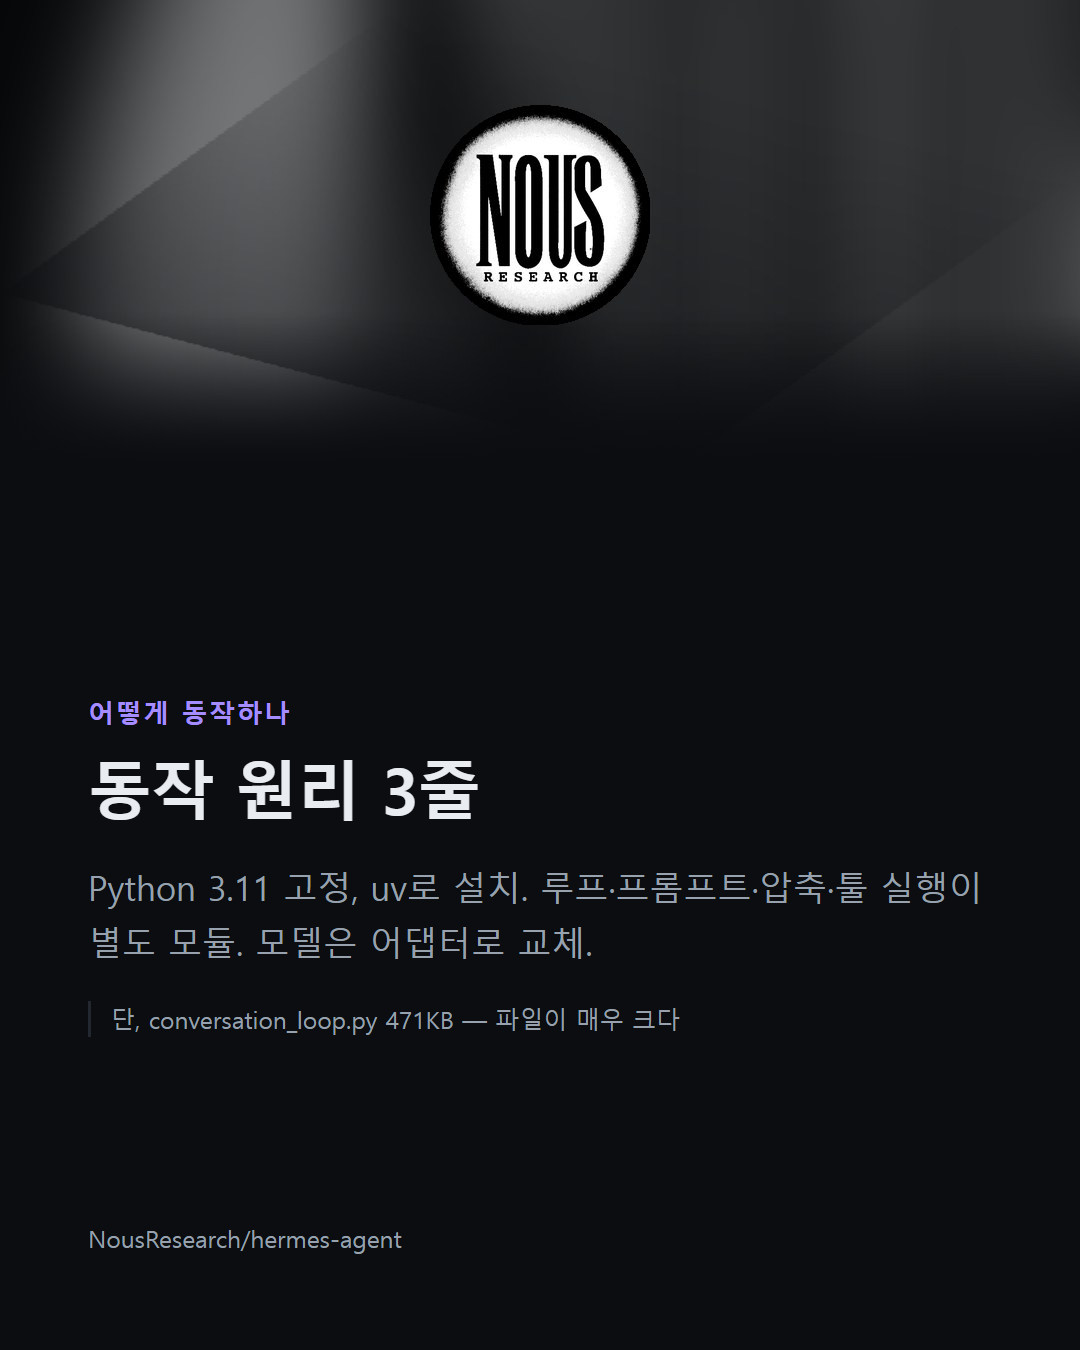
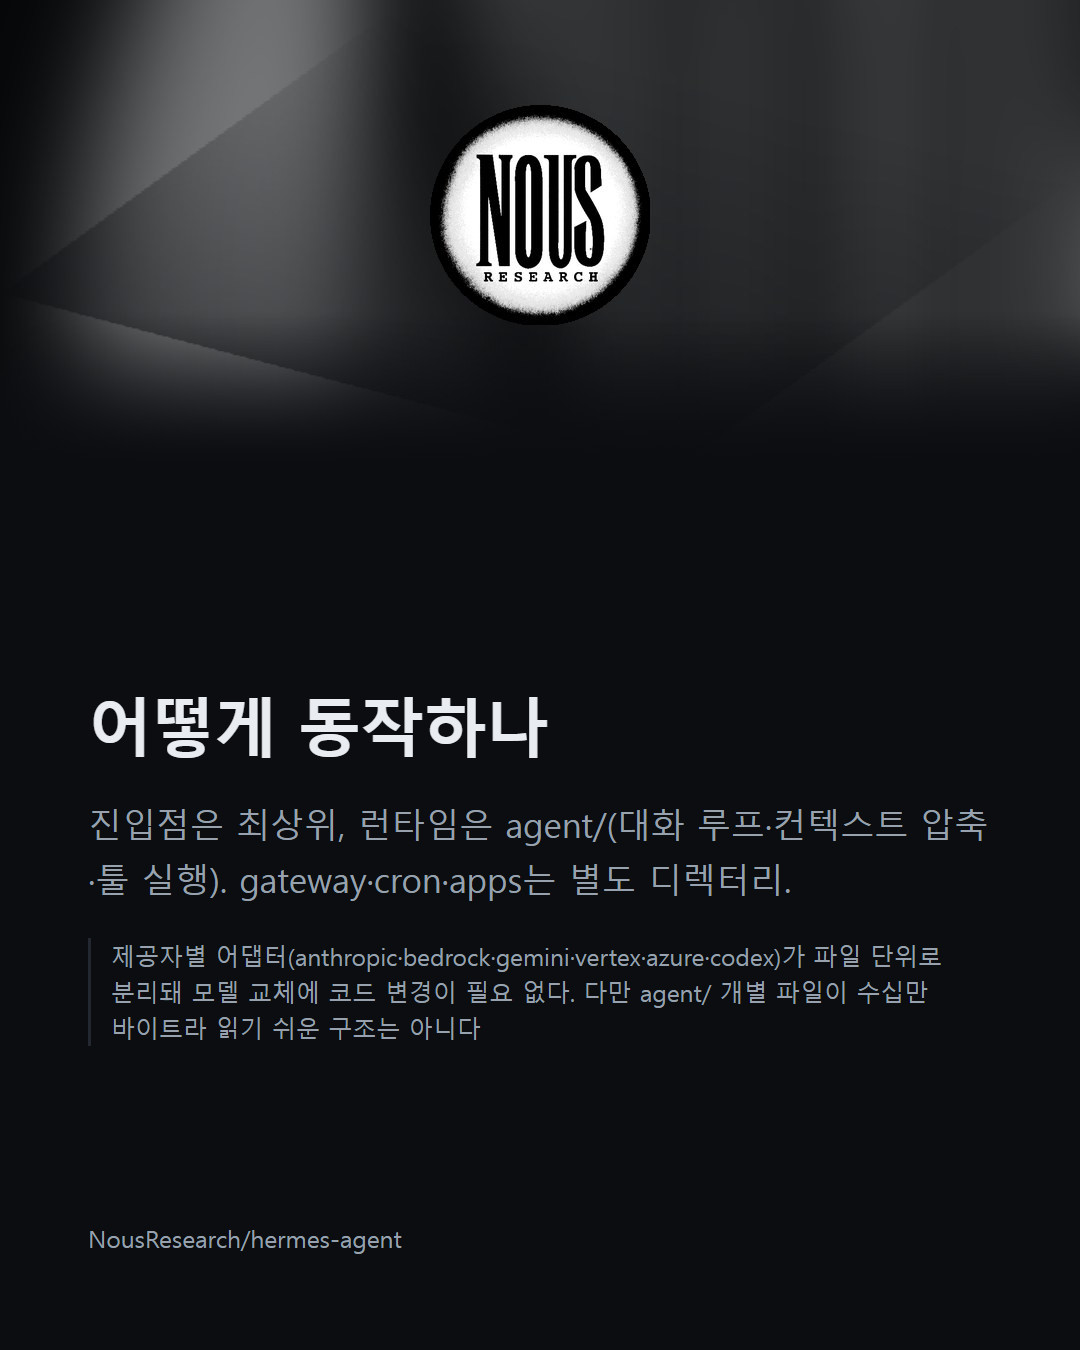
feat: 무인화 범위를 수집·선정까지로 확정, 로컬 일괄 실행 명령 추가
무료 모델로 CI 무인화하는 안을 조사한 끝에 접었다. 근거는 SPEC 9.0:
- GitHub Models 는 2026-07-30 완전 종료. 엔드포인트가 없다.
- Groq 무료는 TPM 8,000 이 단일 요청에 걸려 15K 짜리 compose 가 첫 시도부터 429.
- Actions 로컬 추론은 100K 컨텍스트 KV 캐시만 ~12.8GB 라 16GB 러너를 넘는다.
  한국어가 되려면 8B 이상인데 8B 이상이 안 올라간다 — 축이 서로 반대다.
- Together/Cerebras/HuggingFace 는 무료 티어 폐지·체험판·크레딧 부족.
- 남은 Gemini 무료 티어는 동작하지만 한국어 리더보드에 등장하지 않는다.

반면 로컬은 Claude Code 구독으로 이미 무과금이다. 무인화의 대가가 "발행물의
한국어 품질을 근거 없는 모델에 맡기는 것"이고 얻는 게 "명령 하나 안 치는 것"
이라면 후자가 싸다. 모델 전환 작업도 0일이 됐다.

- `agent run` : 조사→원고→이미지→렌더를 한 번에. --full 로 수집부터, --no-images 로 이미지 생략.
  이미지 실패는 경고만 남기고 계속한다 — 없어도 카드는 나온다.
- collect 워크플로의 select 를 '카나리' 에서 실제 일일 단계로 승격하고
  결과를 GITHUB_STEP_SUMMARY 에 남겨 어떤 레포가 뽑혔는지 바로 보이게 했다.
- API 키 부재는 경고가 아니라 기본 상태다. 인증 출처를 알리는 정보 로그로 바꿨다.
- total_cost_usd 를 '환산' 으로 표기 — 구독으로 돌면 실제 청구액이 아니다.

이 판단은 뒤집을 수 있다. ANTHROPIC_API_KEY 를 넣으면 지금 코드 그대로 CI 에서
돈다(월 약 $33).

테스트 134개 통과.

Changed region(s): [[0.0611, 0.4978, 0.9167, 0.7778]]

diff --git a/agent/__main__.py b/agent/__main__.py
@@ -15,6 +15,7 @@ import argparse
 import logging
 import sys
 from datetime import datetime, timedelta, timezone
+from typing import Any
 
 from . import collect as collect_mod
 from . import paths
@@ -208,6 +209,57 @@ def cmd_design_sync(args: argparse.Namespace) -> int:
     return 0
 
 
+def cmd_run(args: argparse.Namespace) -> int:
+    """로컬에서 한 번에 돌린다.
+
+    수집·선정은 Actions 가 매일 알아서 하므로 기본값은 조사부터다.
+    --full 을 주면 수집부터 전부 로컬에서 돌린다.
+    """
+    from . import compose as compose_mod
+    from . import imagery
+    from . import render as render_mod
+    from . import research as research_mod
+
+    config = load_config()
+    date = args.date
+
+    stages: list[tuple[str, Any]] = []
+    if args.full:
+        stages += [("수집", lambda: collect_mod.run(config, date)),
+                   ("선정", lambda: select_mod.run(config, date))]
+    stages += [
+        ("조사", lambda: research_mod.run(config, date)),
+        ("원고", lambda: compose_mod.run(config, date)),
+    ]
+    if not args.no_images:
+        def _illustrate():
+            deck, post_dir = imagery.load_deck(date)
+            return imagery.run(deck, post_dir)
+        stages.append(("이미지", _illustrate))
+    stages.append(("렌더", lambda: render_mod.run(config, date)))
+
+    for i, (label, fn) in enumerate(stages, 1):
+        print(f"\n─── [{i}/{len(stages)}] {label} " + "─" * 40)
+        try:
+            fn()
+        except select_mod.NoCandidateError as exc:
+            print(f"\n[skip] {exc}")
+            return 0
+        except imagery.ImageryError as exc:
+            # 이미지는 없어도 카드가 나온다. 여기서 멈출 이유가 없다.
+            print(f"\n[warn] 이미지 생략: {exc}", file=sys.stderr)
+            continue
+        except (FileNotFoundError, RuntimeError) as exc:
+            print(f"\n[error] {label} 실패: {exc}", file=sys.stderr)
+            return 1
+
+    post_dirs = sorted(paths.POSTS.glob(f"{date}-*"))
+    print("\n" + "═" * 52)
+    print(f"완료. 카드를 확인하세요: {post_dirs[-1] if post_dirs else paths.POSTS}")
+    print("고칠 게 있으면 content.json 을 수정하고 `python -m agent render` 만 다시 돌리면 됩니다.")
+    return 0
+
+
 def cmd_status(_: argparse.Namespace) -> int:
     snapshots = sorted(p.stem for p in paths.SNAPSHOTS.glob("*.json"))
     watchlist = paths.read_json(paths.WATCHLIST, default={}) or {}
@@ -245,6 +297,14 @@ def main(argv: list[str] | None = None) -> int:
         p.add_argument("--date", default=_today_kst(), help="기준일 (KST, 기본: 오늘)")
         p.add_argument("--dry-run", action="store_true", help="파일을 쓰지 않는다")
         p.set_defaults(func=handler)
+
+    p_run = sub.add_parser(
+        "run", help="조사→원고→이미지→렌더를 한 번에 돌린다 (로컬 실행용)"
+    )
+    p_run.add_argument("--date", default=_today_kst(), help="기준일 (KST, 기본: 오늘)")
+    p_run.add_argument("--full", action="store_true", help="수집·선정도 로컬에서 함께 실행")
+    p_run.add_argument("--no-images", action="store_true", help="상단 이미지 생략")
+    p_run.set_defaults(func=cmd_run)
 
     p_sync = sub.add_parser(
         "design-sync", help="피그마 토큰으로 카드 CSS 를 다시 생성한다"

diff --git a/agent/llm.py b/agent/llm.py
@@ -41,12 +41,17 @@ class AgentRun:
     raw: Any
 
 
-def _require_api_key() -> None:
-    if not os.environ.get("ANTHROPIC_API_KEY"):
-        log.warning(
-            "ANTHROPIC_API_KEY 가 없습니다. Claude Code CLI 의 기존 로그인으로 "
-            "동작할 수 있지만, CI 무인 실행에는 키가 필요합니다."
-        )
+def _note_auth_source() -> None:
+    """어떤 인증으로 도는지 한 번 알려준다.
+
+    API 키가 없는 것은 오류가 아니라 기본 상태다 — 이 단계는 로컬에서 Claude
+    Code 구독 로그인으로 돌리기로 했다(SPEC 9.0). 키를 넣으면 API 과금으로
+    바뀌고 CI 에서도 돌릴 수 있다.
+    """
+    if os.environ.get("ANTHROPIC_API_KEY"):
+        log.info("인증: ANTHROPIC_API_KEY (API 과금)")
+    else:
+        log.info("인증: Claude Code 로그인 (구독 한도 사용, API 과금 없음)")
 
 
 async def run_structured(
@@ -61,7 +66,7 @@ async def run_structured(
     effort: str = "high",
 ) -> AgentRun:
     """에이전트를 돌려 schema_model 로 검증된 결과를 받는다."""
-    _require_api_key()
+    _note_auth_source()
 
     options = ClaudeAgentOptions(
         model=MODEL,
@@ -104,8 +109,10 @@ async def run_structured(
     except ValidationError as exc:
         raise AgentRunError(f"구조적 출력이 스키마와 맞지 않습니다: {exc}") from exc
 
+    # 구독 로그인으로 돌 때 total_cost_usd 는 실제 청구액이 아니라
+    # "API 로 돌렸다면" 기준의 환산 비용이다. 구독 한도만 소진된다.
     log.info(
-        "에이전트 완료: %d턴, $%.4f",
+        "에이전트 완료: %d턴, 환산 $%.4f",
         result.num_turns,
         result.total_cost_usd or 0.0,
     )

diff --git a/posts/2026-08-23-nousresearch__hermes-agent/caption.md b/posts/2026-08-23-nousresearch__hermes-agent/caption.md
@@ -1,8 +1,8 @@
-모델 비종속 CLI 에이전트 hermes-agent. 스킬·메모리를 파일로 남기는 학습 루프(agent/learning_graph.py)와 텔레그램·디스코드 게이트웨이, 7종 실행 백엔드(local·docker·ssh·singularity·modal·daytona·vercel)가 한 저장소에 들어 있습니다.
+경험을 스킬 파일로 남기고 다시 꺼내 쓰는 오픈소스 에이전트. 게이트웨이 프로세스 하나로 Telegram·Discord·Slack·WhatsApp·Signal·CLI를 함께 받고, cron 스케줄러로 무인 작업을 돌린 뒤 결과를 각 플랫폼으로 배달한다. 제공자별 어댑터가 파일 단위로 분리돼 있어 모델 교체에 코드 변경이 필요 없다.
 
-주목할 건 개발 속도입니다. v0.20.4→v0.20.5 한 구간에서만 약 746 커밋, 1,250여 개 파일, +111,500/−20,701 라인, 약 323개 PR이 병합됐습니다. 대신 회귀도 태그에 실립니다. 데스크톱 Bot Mode 무한 스피너(#92832), 한글에서 볼드 뒤 조사가 붙으면 `**`가 그대로 보이는 렌더링 문제(#92814) 등이 열려 있고, v0.21.0 전까지는 정리된 릴리스 노트도 없습니다. 도입 전에 이슈 목록부터 확인하세요.
+/learn은 별도 엔진 없이 프롬프트 하나로 동작하고, 학습 그래프는 실제로 쓰인 스킬만 보여주되 메모리 연결은 토큰 겹침 휴리스틱이다. 최근 릴리스는 하루 간격으로 수백 개 PR을 묶는 속도라 변경 추적이 쉽지 않고, 열린 이슈는 데스크톱 앱과 설치 경로에 몰려 있다.
 
 https://github.com/NousResearch/hermes-agent
-스타 234,515 · 라이선스 MIT · Python
+스타 234,523 (오늘 +443) · 라이선스 MIT · Python
 
-#개발자 #오픈소스 #github #깃허브 #hermesagent #NousResearch #AI에이전트 #코딩에이전트 #python #파이썬 #CLI #MIT라이선스 #LLM #MCP #docker #devtools #개발도구 #자동화 #텔레그램봇 #디스코드봇
+#개발자 #오픈소스 #깃허브 #AI에이전트 #hermes #NousResearch #파이썬 #python #LLM #CLI #자동화 #MCP #devtools #github #opensource #aiagent #코딩툴 #개발도구
